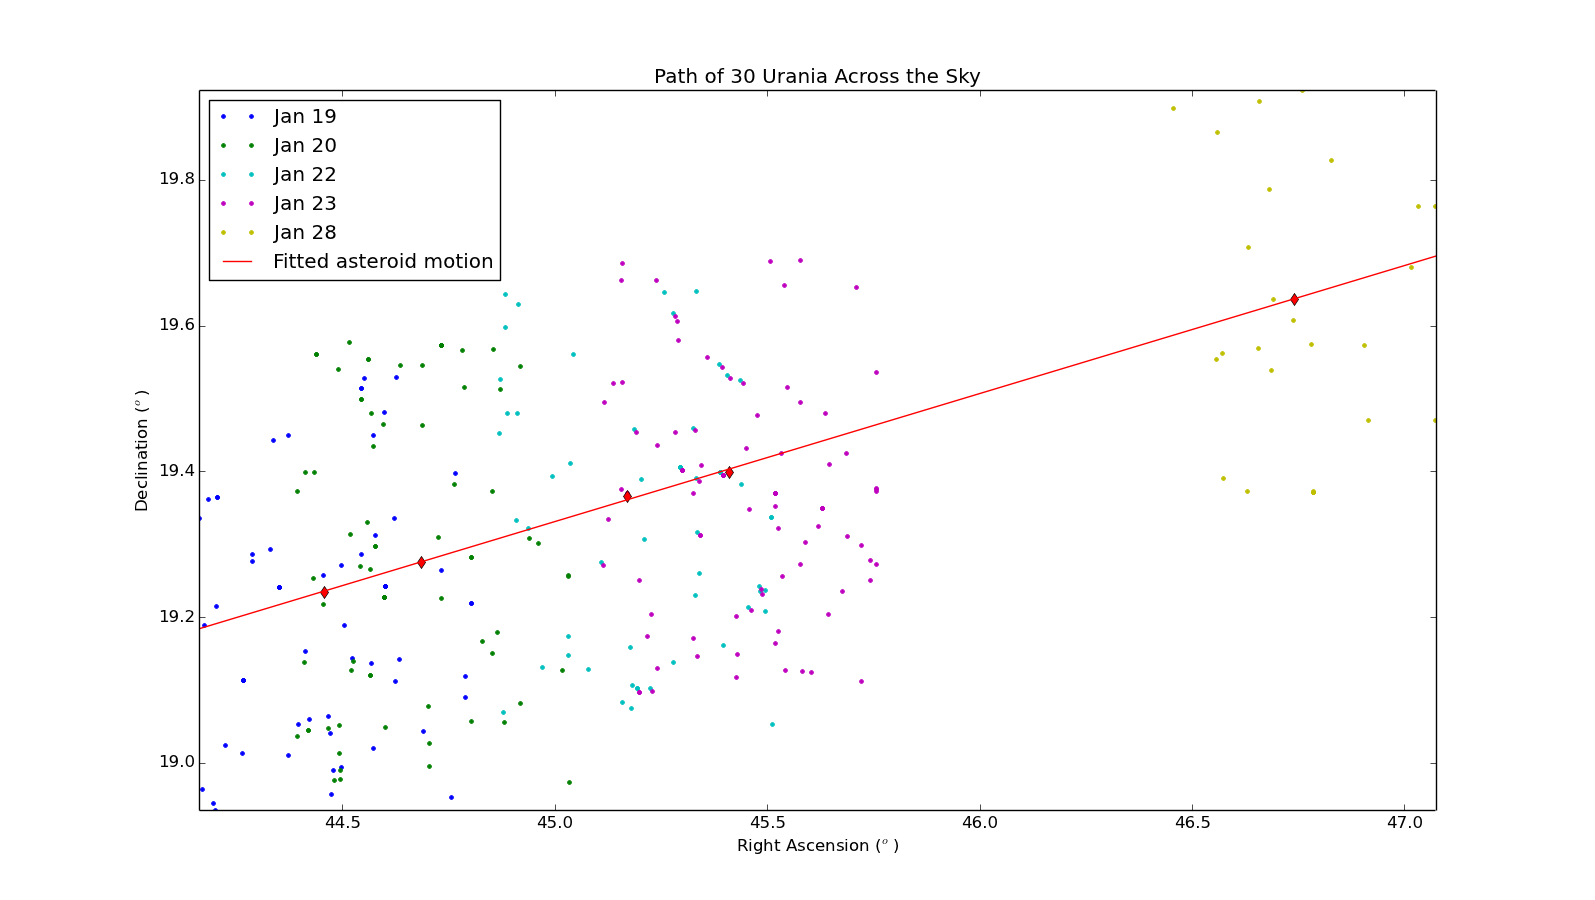
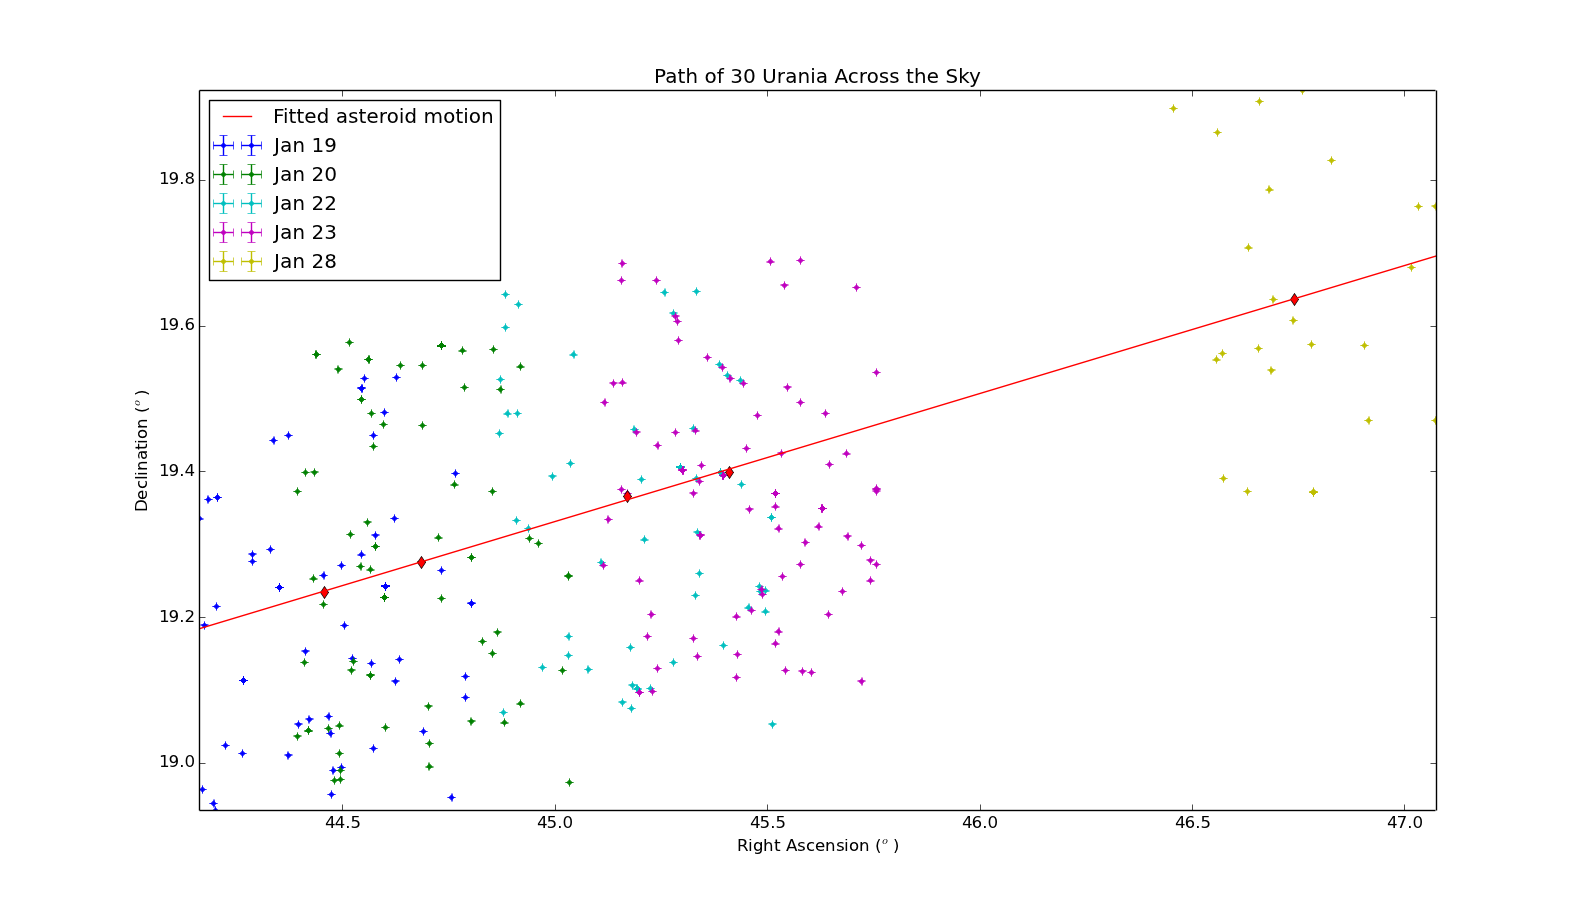
Continued drafting

Changed region(s): [[0.1229, 0.1556, 0.3072, 0.3111], [0.1536, 0.1244, 0.3072, 0.1867]]

diff --git a/Final Report/Lab 3/Final Report.tex b/Final Report/Lab 3/Final Report.tex
@@ -52,6 +52,7 @@ Table~\ref{tab:datatable} provides a list of the pertinent information found in 
   \begin{tabular}{c||c||c||c||c||c}
    Date (UTC) & Time (UTC) & $\alpha$ (hr) & $\delta$ ($^o$) & Source & Exposure (s)\\
    \hline
+   \hline
    13/10/11 & 03:18:59 & 22:37:18 & +34:26:37 & NGC7331 & 240\\
    07/11/11 & N/A & N/A & N/A & Reduced flat & N/A \\
    18/10/11 & N/A & N/A & N/A & Dark & 240\\
@@ -239,6 +240,7 @@ Using Equation~\ref{eqn:constants}, it was possible to determine the transformat
   \begin{tabular}{c||c||c}
   	Constant & Ideal Value & Calculated Value \\
   	\hline
+  	\hline
   	$a_{11}$ & 1 & 1.00050002 \\
   	$a_{12}$ & 0 & -0.00659824 \\
   	$x_{0}$ & 1024 & 1019.64337372 \\
@@ -293,7 +295,7 @@ Once the coordinates had been transformed to the equatorial system, the points w
 \begin{figure}[!htbp]
 \centering
 \includegraphics[scale = 0.35]{proper_motion.png}
-\caption{Motion in right ascension and declination of 30 Urania over observing time.}
+\caption{Motion in right ascension and declination of 30 Urania over observing time. Error bars are plotted, but are hidden by the markers.}
 \label{fig:pm}
 \end{figure}
 
@@ -304,6 +306,7 @@ Two fits were made, one to the first four points, and another including the last
   \centering
   \begin{tabular}{c||c||c||c||c}
   	Points & $\mu_{\alpha} (^o/hr)$ & $\mu_{\alpha} (''/hr)$ & $\mu_{\delta} (^o/hr)$ & $\mu_{\delta} (''/hr)$ \\
+  	\hline
   	\hline
   	4 & $9.93\e{-3}\pm 4\e{-5}$ & $35.7\pm 0.2$ & $1.74\e{-3}\pm 6\e{-5}$& $6.3\pm 0.2$ \\
   	5 & $1.08\e{-2}\pm 8\e{-4}$ & $39\pm 2$ & $1.9\e{-3}\pm 2\e{-4}$ & $6.8\pm 0.8$ \\
@@ -341,6 +344,7 @@ As a further check of the asteroid coordinates, NASA's Jet Propulsion Laboratory
   \begin{tabular}{c||c||c||c||c||c||c}
   	Day & Identified $\alpha$ & Ephemeris $\alpha$ & Offset (s) & Identified $\delta$ & Ephemeris $\delta$ & Offset ($''$)\\
   	\hline
+  	\hline
   	Jan 20 & 02:57:49.44 & 02:57:49.26 & 0.18 & +19:14:02.7 & +19:14:30.8 & 28.1\\
   	\hline
   	Jan 21 & 02:58:44.30 & 02:58:44.11 & 0.19 & +19:16:34.8 & +19:16:45.1 & -10.3\\
@@ -349,7 +353,7 @@ As a further check of the asteroid coordinates, NASA's Jet Propulsion Laboratory
   	\hline
   	Jan 24 & 03:01:38.39 & 03:01:37.59 & 0.80 & +19:23:56.0 & +19:24:04.0 & -8.0\\
   	\hline
-  	Jan 25 & 03:06:57.74 & 03:02:30.46 & 267 & +19:38:12.9 & +19:26:21.6 & 711\\
+  	Jan 25 & 03:06:57.74 & 03:02:30.46 & 267 & +19:38:12.9 & +19:26:21.6 & 711
    \end{tabular}
     \caption{A comparison of asteroid position as identified within the program and asteroid position according the JPL's ephemeris~\citep{urania}. Dates are all from 2012. By convention, right ascension ($\alpha$) is given in hours, and declination ($\delta$) is given in degrees.}
     \label{tab:position}
@@ -358,7 +362,9 @@ As a further check of the asteroid coordinates, NASA's Jet Propulsion Laboratory
 
 It is obvious from the Table~\ref{tab:position} that for the first four days, the asteroid's position matches the predicted position quite well. However, on the last day, it is clear that the asteroid was completely misidentified. Therefore, final values for proper motion are taken from the fit of the first four points. Both fits were plotted on Figure~\ref{fig:path}, but the scaling is such that they are completely indistinguishable.
 
-The offsets in Table~\ref{tab:position} are outside the errors found in Section~\ref{sec:calc}, where it was found that $\Delta\alpha = 0.890''$ and $\Delta\delta = 0.817''$. This is not entirely unexpected. The ephemeris could only be generated for thirty minute intervals (as any longer time crashed the webpage), and so the observation times had to be rounded to the nearest half hour. For a slow moving star, this would not be a problem, but in the case of 30 Urania, Table~ref{tab:pm} clearly shows that a large shift in arcseconds should be expected even over a short time.
+The offsets in Table~\ref{tab:position} are outside the errors calculated in Section~\ref{sec:calc}, where it was found that $\Delta\alpha = 0.890''$ and $\Delta\delta = 0.817''$. This is not entirely unexpected. The ephemeris could only be generated for thirty minute intervals (as any longer time crashed the webpage), and so the observation times had to be rounded to the nearest half hour. For a slow moving star, this would not be a problem, but in the case of 30 Urania, Table~\ref{tab:pm} clearly shows that a large shift in arcseconds should be expected even over a short time. While some shift was expected, the January 25 asteroid location is still well outside the expected value.
+
+With this external assessment of the points used, the proper motion was taken from the fit of the first four points, namely that $\mu_{\alpha} = 35.7\pm 0.2 ''/hr$ and $\mu_{\delta} = 6.3\pm 0.2 ''/hr$.
 
 \bibliographystyle{plainnat}
 \bibliography{cite}

diff --git a/Lab 3 Data/database_asteroid.py b/Lab 3 Data/database_asteroid.py
@@ -239,8 +239,8 @@ plt.show()
 cs = ['b','g','c','m','y']
 plt.figure()
 for i in range(len(righta)):
-	plt.plot(righta[i],decl[i],'{0}.'.format(cs[i]),label = 'Jan {0}'.format(days[i]))
-plt.plot(actual_asteroidx,actual_asteroidy,'rd')
+	plt.errorbar(righta[i],decl[i],label = 'Jan {0}'.format(days[i]),yerr=0.8173101414/3600,xerr = 0.890389808/3600,fmt='{0}.'.format(cs[i]))
+plt.errorbar(actual_asteroidx,actual_asteroidy,fmt='rd',yerr=0.8173101414/3600,xerr = 0.890389808/3600)
 plt.plot(line(popt,smooth_timehr),line(kopt,smooth_timehr),'r',label='Fitted asteroid motion')
 #plt.plot(line(ropt,smooth_timehr),line(mopt,smooth_timehr),'g',label='Fitted asteroid motion')
 plt.xlim(min(righta[0]),max(righta[4]))
